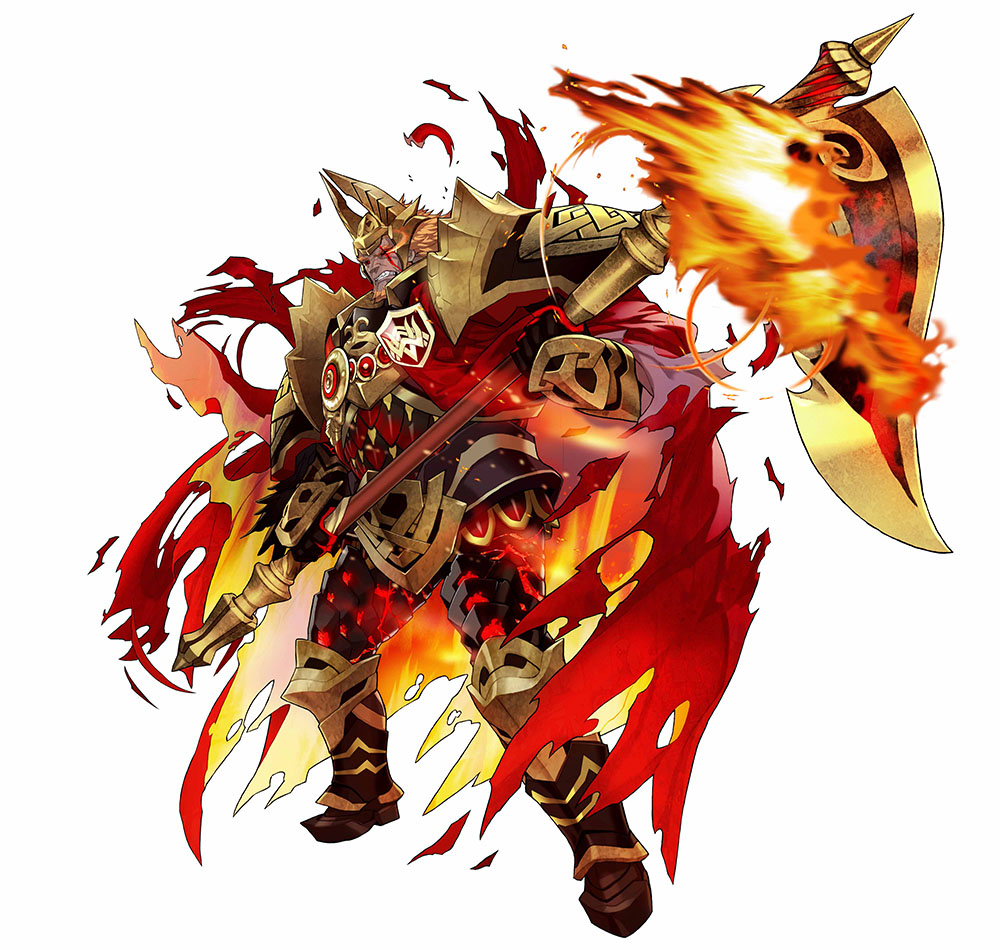
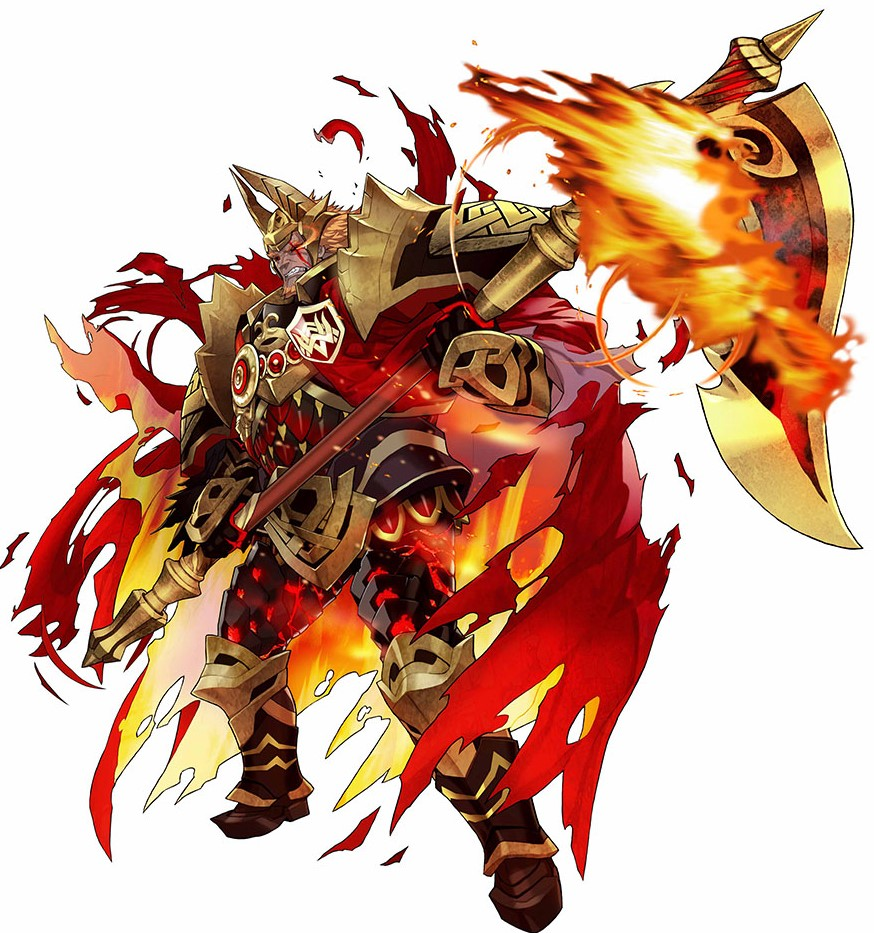
AjusterStyleCodeJavaScript
Croper certaines images et autres modifications pour le style. Et ps5.2, étape 1.

diff --git a/script.js b/script.js
@@ -229,7 +229,7 @@ const chaptersObj = {
   massacre_paysans: {
     subtitle: "Sacrifice Essentiel",
     text: "Tu ignore les cris désepérer des paysans et tout le monde meurt. `Comment ose tu les laisser mourrir comme ça!? dit Alfonse et Fjorm simultanément.` `On doit faire vite, on n'a pas le temps à perdre! Il faut qu'on retrouve la soeur de Fjorm le plus rapidement possible!! tu dis pressé.`",
-    img: "assets/image/summoner_heros.webp",
+    img: "assets/image/summoner_heros_retraite.png",
     options: [
       {
         text: "Tu quitte le village sans regarder derrière toi",
@@ -365,7 +365,7 @@ const chaptersObj = {
   combat_general: {
     subtitle: "Combat Décisive",
     text: "Au début, Laergarn et sa soeur se moquent de vos efforts de résister à l'attaque de leur père Surtr. Parcontre, tu ne cède pas, tu les invites à un combat contre toi et ton équipe pour décider qu'est-ce qui va ce passer après. Si on perd tu peut nous tuer, mais si on gagne vous vous tassez de notre chemin. On va rencontrer Gunthrà que vous le voulez ou non!!",
-    img: "assets/image/summoner_heros.webp",
+    img: "assets/image/summoner_heros_souri.png",
     options: [
       {
         text: "Vous gagnez le combat contre les générals.",
@@ -457,7 +457,7 @@ const chaptersObj = {
   temple_glace: {
     subtitle: "Le Rituel de Glace",
     text: "Arrivée au temple de la glace, Fjorm fait face à une décision entrer et faire le rituel ou non. Il y a un risque à faire ce rituel, mais Fjorm sait cela depuis longtemps. Sa détermination à vaincre Surtr et libérer le monde de ce dictateur écrase sa peur de mourrir, mais quand même... Le rituel pourrait ne simplement pas marcher et là quoi faire... Personne ne serait capable de tuer le roi avec le pouvoir de la flame éternelle. NON, il faut faire ce rituel à tout prix!! C'est notre seule chance de vaincre Surtr! dit Fjorm. Tacticien, c'est à toi de jouer, qu'est ce que vous allez faire?",
-    img: "assets/image/temple.jpg",
+    img: "assets/image/royaume_nifl.png",
     options: [
       {
         text: "Fjorm rentre avec détermination",
@@ -489,7 +489,7 @@ const chaptersObj = {
     options: [
       {
         text: "Tu utilise de la magie pour retourner dans le temps.",
-        action: "goToChapter(`royaume_nifl`)",
+        action: "resetTempsRestant()",
       },
     ],
   },
@@ -722,6 +722,15 @@ function goToChapter(chapterName) {
 
   console.log(sound);
   console.log(options);
+
+  //Boucle forEach à l'extérieur de la fonction pour ajouter classe quand le chapitre charge
+  let body = document.querySelector("body");
+  if (chaptersObj[chapterName] == chaptersObj[chapterName]) {
+    body.classList.add(chapterName);
+  } else {
+    body.remove(chapterName);
+  }
+  console.log(body);
 
   //Sauvegarder le chapitre que l'utilisateur est rester sur.
   localStorage.setItem("chapterName", chapterName);

diff --git a/style.css b/style.css
@@ -36,12 +36,13 @@ body{
 
 /*Ajuster la taille du logo, de l'image temporaire, le text et de la vidéo*/
 #divImage, img, .image, .video {
-    width: 400px;
-    height: 500px;
+    width: 175px;
 }
 
 #text {
     width: 400px;
+    margin: 0px;
+    margin-bottom: 5px;
 }
 
 /*Aligner le titre au centre de l'affiche*/
@@ -50,6 +51,8 @@ body{
     color: var(--jaune);
     width: 100%;
     -webkit-text-stroke: 1px var(--orange);
+    margin-bottom: 0px;
+    margin-top: 5px;
 }
 
 #chapitre {
@@ -65,10 +68,14 @@ body{
 #options, #reset {
     display: flex;
     width: 400px;
-    margin: 10px;
+    margin: 5px;
     flex-direction: row;
     justify-content: space-between;
     align-self: center;
+}
+/*Donner une marge du bas de 10px*/
+#reset  {
+    margin-bottom: 10px;
 }
 
 /*Mise en page du style des boutons*/
